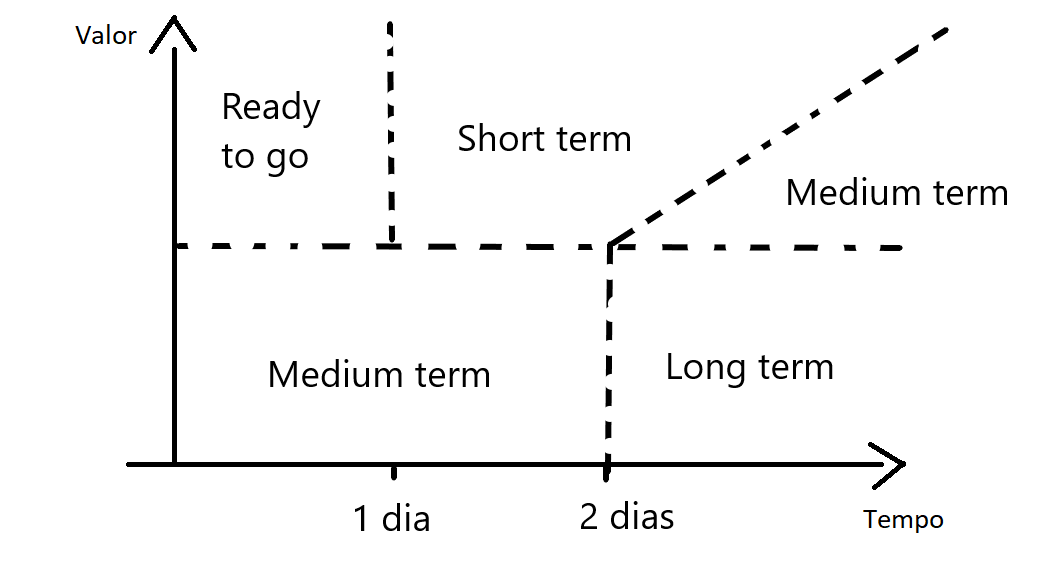
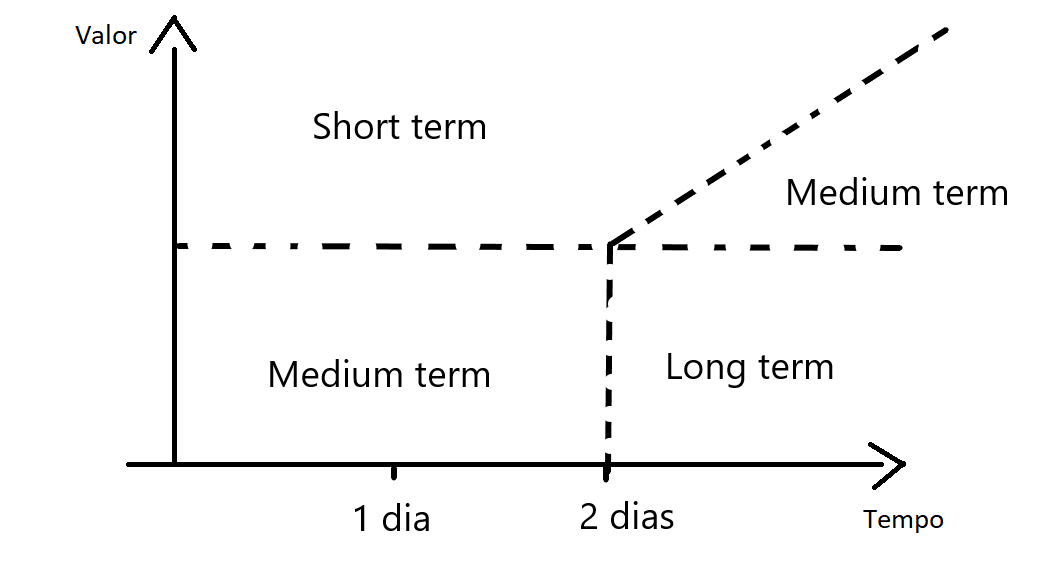
📝 Add backlog definition and the description of stories refinement

diff --git a/project_management/interactions/💎 Reunião de refinamento de Histórias.md b/project_management/interactions/💎 Reunião de refinamento de Histórias.md
@@ -1,0 +1,55 @@
+A reunião de refinamento deve ser uma reunião regular com a participação do time ou pelo menos parte do time (parte diretamente relacionada as histórias) a fim de organizar o Backlog melhorando as informações contextuais das histórias e provendo estimativas que sejam cada vez mais relacionadas ao real desenvolvimento de uma história.
+
+> [!info] Configuração
+> Participantes: integrantes do time referente as histórias
+   Duração: por volta de 1 hora, mais que isso é melhor marcar outras reuniões
+   Frequência: a definir com o time
+
+# Resultados do processo de refinamento
+
+- Descoberta de novas ideias
+- Identificar itens para remover do Backlog
+- Melhorar a Objetividade
+	- Adição de detalhes, restrições, casos extremos e critérios de aceite a fim de melhorar o entendimento das Histórias
+- Quebrar itens grandes
+	- As vezes uma História pode ser quebrada em outras, fazendo esse tipo de refinamento conseguimos entregar valor em momentos diferentes, as vezes até possibilitando entregar uma parte do valor da História antes.
+- Redefinir Valor e Estimativas
+- Identificar riscos
+	- Identificar riscos antes permitem que a História possa ser refinada levando em consideração esses riscos.
+
+
+# Como funciona uma reunião de refinamento?
+
+Uma pessoa é encarregada de ler a história definida até o momento. (Idealmente esse papel de leitura pode ser revesado entre os integrantes do time). Essa pessoa pode opinar durante a discussão, porém ela irá desempenhar um papel de mediador, em que anotará todas as questões levantadas durante a reunião e suas possíveis considerações.
+
+A equipe então começa a discutir sobre os aspectos da História. Cada um dos integrantes presentes irão levantar questões relacionadas aos seus respectivos papéis.
+
+- Papéis relacionados ao negócio devem priorizar o entendimento do valor de negócio agregado pela História.
+
+> [!tip] Perguntas pertinentes para papéis de negócio
+> - Qual o valor adicionado ao projeto com essa História?
+> - O que essa História é diferente do que já está desenvolvido?
+> - Como nossos concorrentes desenvolveram essa História? Ela apresenta algum diferencial relevante?
+
+- Papéis relacionados ao desenvolvimento técnico devem priorizar o entendimento da necessidade técnico do desenvolvimento.
+
+> [!tip] Perguntas pertinentes para papéis de desenvolvimento técnico
+> - Já existe alguma História parecida que possa ser aproveitada?
+> - Existe alguma opção mais simples para implementar essa História que já sirva em uma primeira versão?
+> - É necessário criar um protótipo para testar a implementação?
+
+- Papéis relacionados a qualidade devem priorizar o entendimento de como demonstrar o valor adicionado pelo História.
+
+> [!tip] Perguntas pertinentes para papéis de qualidade
+> - Como é possível testar essa História?
+> - Como pode ser definido que a História está entregue?
+
+Depois de discutidos todos os pontos entre todos os integrantes representando cada um de seus papéis as pessoas devem avaliar o Valor e a Estimativa de cada História.
+
+Quando todos estão felizes com o entendimento da História e concordam com os Valores e Estimativas a História é liberada para desenvolvimento.
+
+Caso durante a discussão a História alguma questão não foi respondida por alguma questão externa aos integrantes da reunião, como por exemplo, algum teste necessário, alguma definição de negócio ou algum aspecto que não ficou bem definido, a História segue para refinamento e são elencados integrantes do time para continuar a refinar a História de acordo com cada questão não respondida. Assim essa história é levantada para a próxima reunião de refinamento para ser novamente discutida.
+
+Caso durante a discussão a História é refutada por qualquer um dos aspectos ela é então Caducada e deve ser arquivada.
+
+

diff --git a/project_management/entities/🪵 Backlog.md b/project_management/entities/🪵 Backlog.md
@@ -1,0 +1,61 @@
+O backlog de tarefas é o conjunto de história que serão refinadas em relação a vários aspectos do desenvolvimento para serem elegidas como candidatas para a produção ou descartadas.
+
+O Backlog deve ser um recurso utilizado para facilitar ao time de desenvolvimento a criação de Histórias refinadas. O refinamento de Histórias acontece por parte do time de desenvolvimento, por meio de revisões, reuniões usuários, time técnico, time de negócio e qualquer outro tipo de pessoa envolvida ou impactada pela História.
+
+Principais características de um backlog:
+
+- Entendimento pelos envolvidos
+Qualquer pessoa envolvida no desenvolvimento ou impactada pela história deve ter entendimento de seu conteúdo. Deve haver informação contextual o suficiente para iniciar seu desenvolvimento. 
+
+- Possuem uma estimativa para implementação
+Esse ponto é muito importante, o ponto de implementação não é apenas uma estimativa de tempo de desenvolvimento em relação a programação, mas do ponto que a História foi iniciada até o valor ter sido entregue para o usuário final.
+
+> [!tip] Tenha um Backlog refinado com moderação
+Uma equipe deve ter um Backlog organizado, porém esse Backlog não deve estar demasiadamente refinado. O refinamento deve ser feito em reflexo ao desenvolvimento. Caso muitas Histórias sejam refinadas seu entendimento pode ficar perdido, assim esse tempo foi gasto em vão.
+
+# Propriedades
+
+| Propriedade | Descrição                                              |
+| ----------- | ------------------------------------------------------ |
+| Estimativa  | Tempo necessário para o desenvolvimento da 🃏 História |
+| Valor       | Valor agregado ao projeto com a entrega da 🃏 História |
+| Escala      | Estado da 🃏 História em relação ao seu refinamento    | 
+
+Todas as outras propriedades são iguais as de [[🃏 Histórias]] já que uma História de Backlog é apenas uma História que ainda não foi refinada.
+
+# Rituais de gerenciamento de Backlog
+
+Para manter um Backlog organizado podemos recorrer a alguns rituais auxiliares.
+
+[[💎 Reunião de refinamento de Histórias]]
+
+# Técnicas de priorização de backlog
+
+A criação de um backlog ajuda o time de desenvolvimento a ter acesso a todas as ideias levantadas que podem acrescentar valor ao projeto. Porém a medida que esse número de Histórias aumentam é necessário criar um alguma organização para priorizar Histórias.
+
+## Custo/Benefício
+
+O backlog pode ser dividido de acordo com a razão custo/benefício de cada funcionalidade no sistema.
+
+Pode ser dividido na seguinte forma:
+
+- Novo
+  - Novas ideias que surgiram em reuniões de brainstorm ou durante o desenvolvimento
+- Refinando
+  - As ideias que já foram discutidas uma primeira vez durante alguma reunião de refinamento e precisam de mais algum tipo de refinamento
+- Curto prazo
+  - Features elegíveis para entrar nas próximas sprints de desenvolvimento
+- Médio prazo
+  - Features elegíveis para entrar em sprints futuras 
+- Longo prazo
+  - Features sem previsão para serem implementadas 
+- Caducou
+  - Features que não tem mais sentido a implementação no projeto, utilizado mais como um histórico de ideias que foram levantas. 
+
+## Priorização de backlog
+
+A priorização do backlog deve organizar as tarefas de forma a maximizar o valor entregue pelas funcionalidades no projeto e relação ao custo de produção, ou seja, tempo de desenvolvimento, custo com assets e ferramentas.
+
+![](project_management/_images/matrix_priorization.png)
+
+A media de tempo e de valor devem ser avaliadas junto ao time de desenvolvimento.
